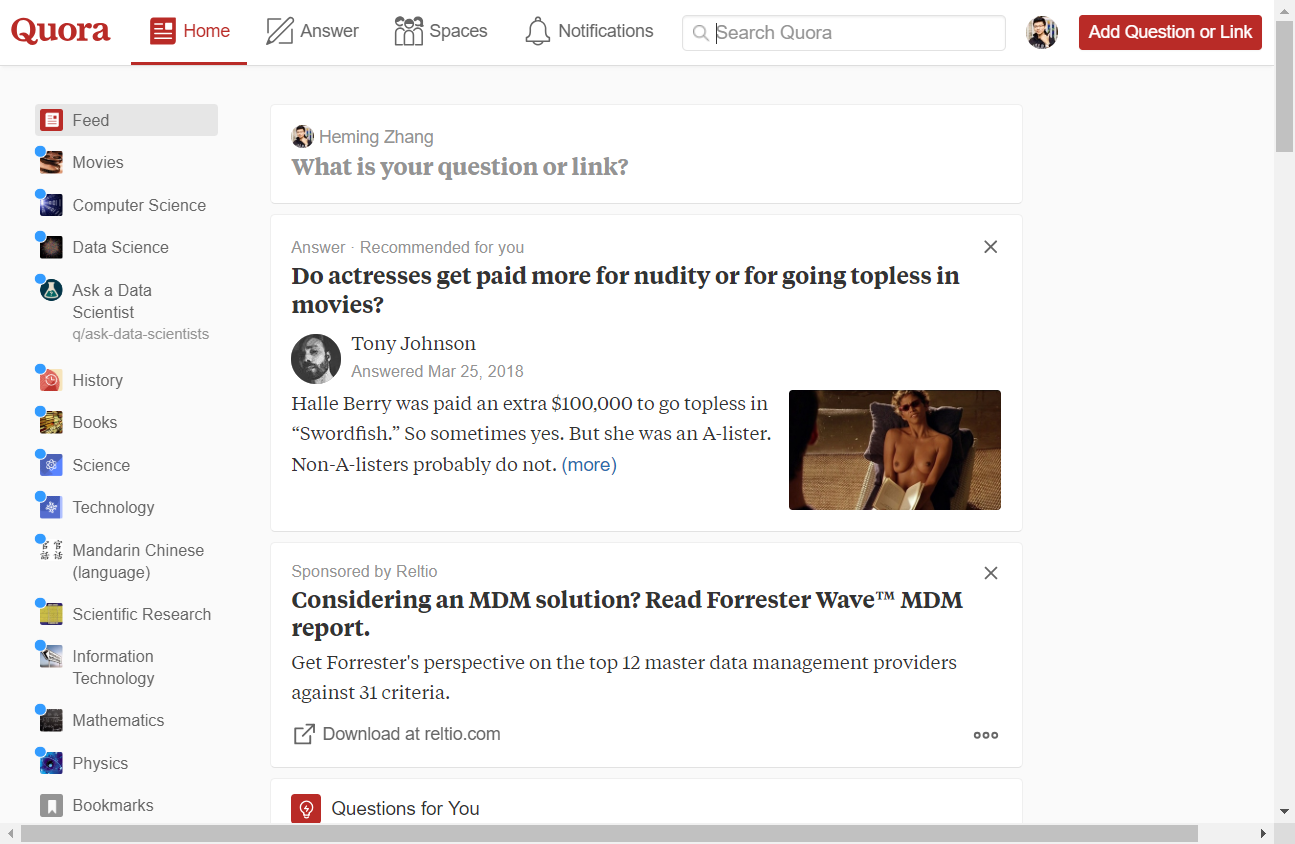
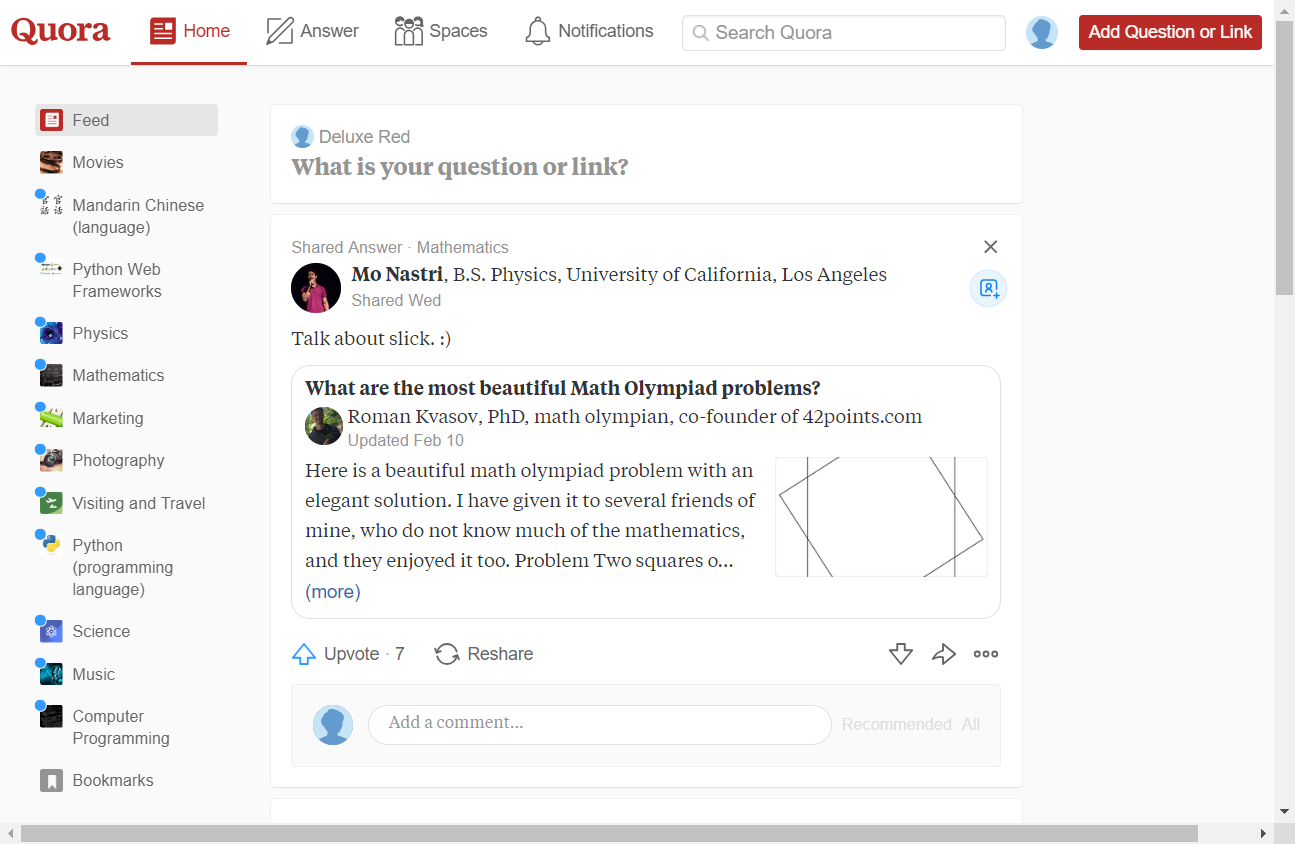
new changes

diff --git a/login0.py b/login0.py
@@ -11,35 +11,51 @@ from selenium.webdriver.support import ui
 from selenium.webdriver.common.keys import Keys
 
 def page_is_loaded(driver):
-        return driver.find_element_by_tag_name("body") != None
+    return driver.find_element_by_tag_name("body") != None
 
 def donwload_page(link):
     crawl = urllib.request.urlopen(link)
     # print(crawl.read())
     return crawl.read()
 
+
+
 def quora_login():
+    # TODO: use webdriver to login into quora
     driver = webdriver.Chrome(ChromeDriverManager().install()) 
-    driver.get("https://www.quora.com/")
-    wait = ui.WebDriverWait(driver, 10)
+    driver.get("https://www.quora.com/?prevent_redirect=1") #  to use English as the first language
     # wait for 10 seconds before showing exception
+    wait = ui.WebDriverWait(driver, 10)
     wait.until(page_is_loaded)
-    email_field = driver.find_element_by_css_selector("input[placeholder=Email]") # メールアドレス
-    email_field.send_keys("453315984@qq.com")
-    password_field = driver.find_element_by_css_selector("input[placeholder=Password]") # パスワード
-    password_field.send_keys("ccnu15zhm4533")
-    # password_field.send_keys(Keys.RETURN)
-    
+    email_field = driver.find_element_by_xpath("//input[@placeholder='Email']") # メールアドレス
+    email_field.send_keys("3181276187@qq.com")
+    password_field = driver.find_element_by_xpath("//input[@placeholder='Password']") # パスワード
+    password_field.send_keys("15hszhm961203")
+    # click submit button to enter into quora
     driver.find_element_by_xpath("//input[@class='submit_button ignore_interaction']").click()
-
-    driver.save_screenshot("quora_home0.png")
+    # password_field.send_keys(Keys.RETURN)
+    wait = ui.WebDriverWait(driver, 10)
+    wait.until(page_is_loaded)
     print (driver.current_url)
+    driver.save_screenshot("quora_home0.png")
+    soup = BeautifulSoup(driver.page_source,'lxml')
+    print(soup.find('title').string)
+    return driver
 
+
+def quora_crawl():
+    # crawl Q&A from topic of movies
+    driver = quora_login()
+    wait = ui.WebDriverWait(driver, 10)
+    wait.until(page_is_loaded)
+    driver.get("https://www.quora.com/topic/Movies")
+    print (driver.current_url)
+    driver.save_screenshot("quora_movies0.png")
     soup = BeautifulSoup(driver.page_source,'lxml')
     print(soup.find('title').string)
 
+
 if __name__ == "__main__":
-    quora_login()
+    quora_crawl()
 
 
-# <input class="submit_button ignore_interaction" type="submit" value="Login" tabindex="4" data-group="js-editable" w2cid="wQZ1KLty18" id="__w2_wQZ1KLty18_submit_button">
